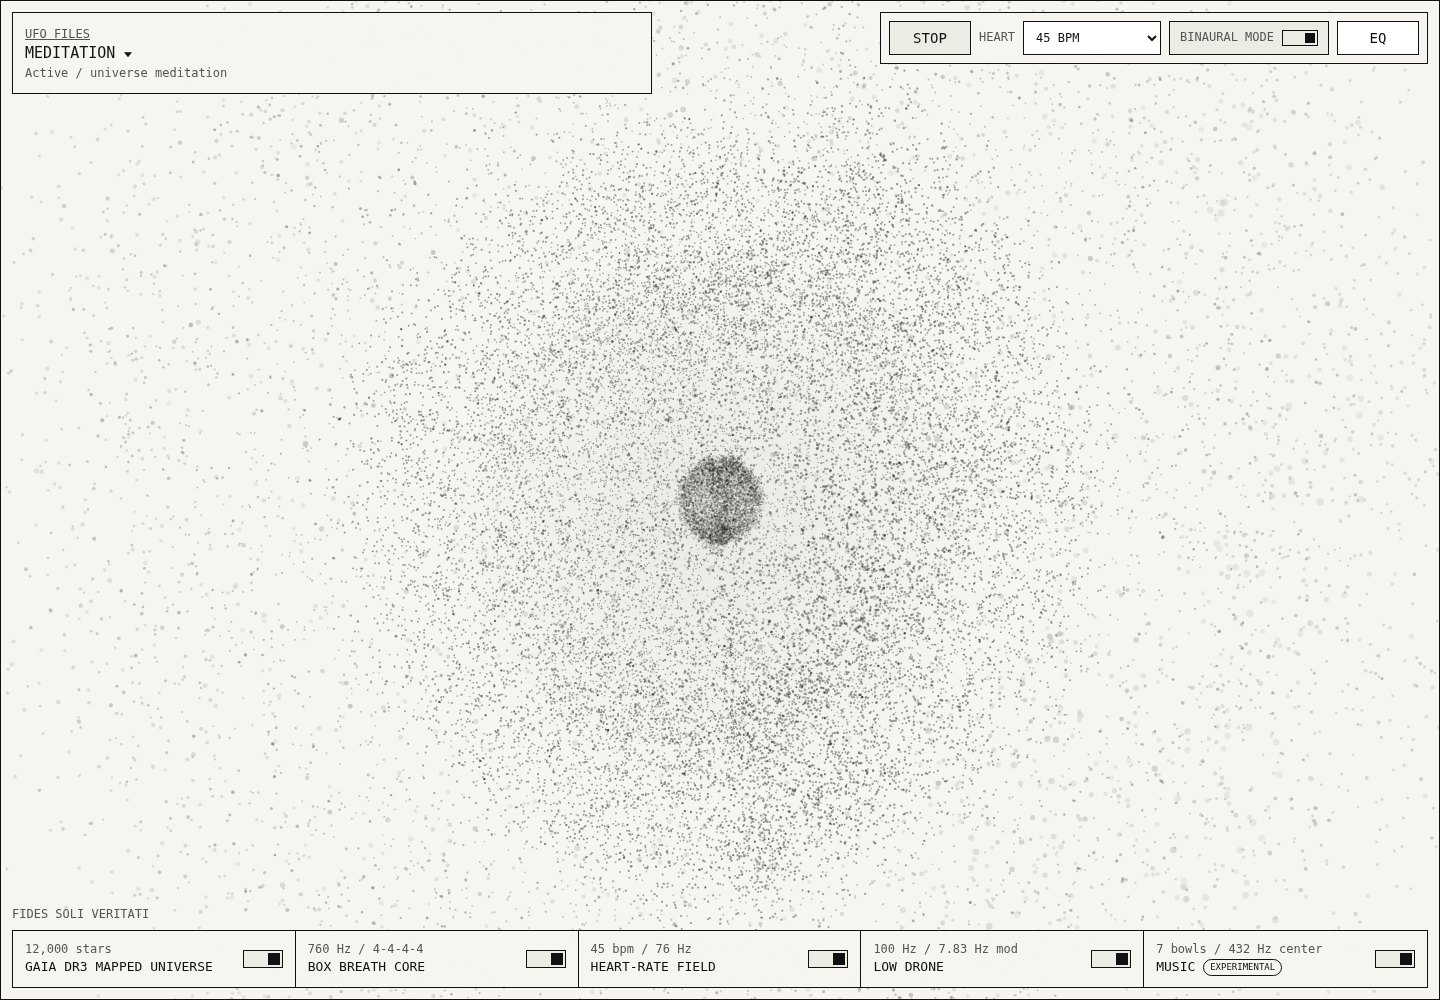
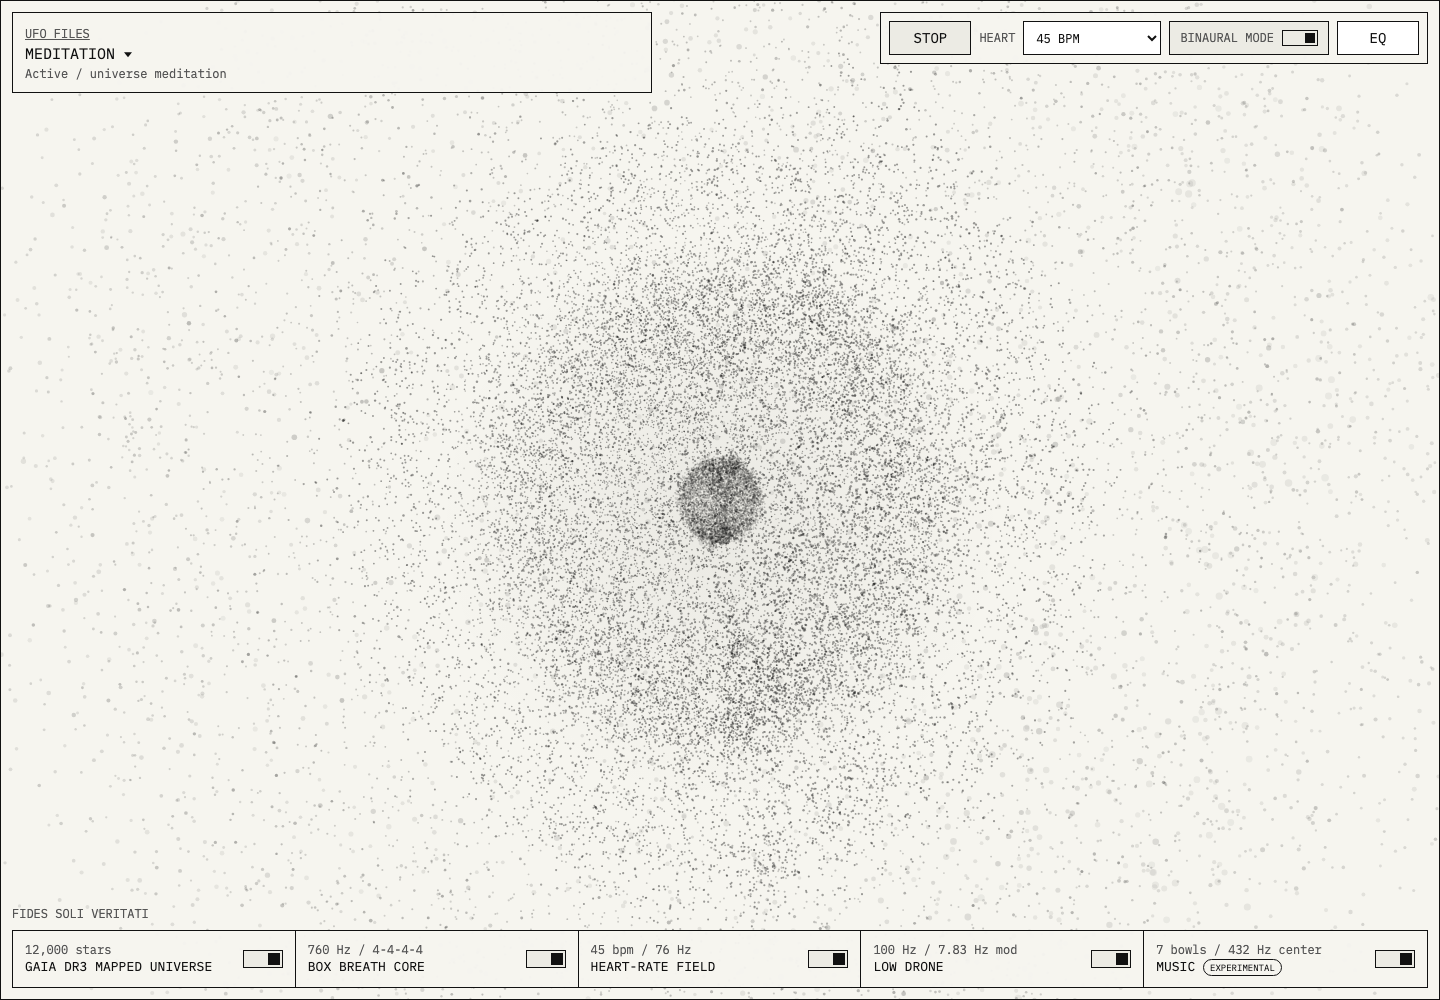
Tune meditation breath range

diff --git a/script.js b/script.js
@@ -367,7 +367,7 @@ function drawThree(elapsed) {
   view.universe.points.scale.setScalar(state.depth);
   view.universe.material.opacity = state.running ? .92 : .72;
   updateThreeMusicLayer(view.music, MUSIC_VOLUME_SCALE, music, elapsed, active);
-  updateThreeProceduralLayer(view.breath, BEAT_VOLUME_SCALE + breath * .12, state.running ? .024 : 0, .46 + breath * .3);
+  updateThreeProceduralLayer(view.breath, BEAT_VOLUME_SCALE * (.5 + breath * .5), state.running ? .024 : 0, .5 + breath * .32);
   updateThreeHeartLayer(view.beat, BEAT_VOLUME_SCALE, beat, state.running);
   updateThreeDroneLayer(view.drone, DRONE_VOLUME_SCALE, state.running ? audioElapsed(elapsed) : elapsed, state.running ? .007 : 0);
   view.renderer.render(view.scene, view.camera);
@@ -414,13 +414,13 @@ function updateThreeMusicLayer(layer, scale, energy, elapsed, active) {
 function updateThreeHeartLayer(layer, scale, beat, animateSurface) {
   const positions = layer.geometry.attributes.position.array;
   const now = performance.now() * .00012;
-  const pulseScale = scale * (1 + beat * .12);
+  const pulseScale = scale * (1 + beat * .08);
   for (let index = 0; index < layer.phases.length; index += 1) {
     const offset = index * 3;
     const nx = layer.directions[offset];
     const ny = layer.directions[offset + 1];
     const nz = layer.directions[offset + 2];
-    const surfaceNoise = animateSurface ? Math.sin(layer.phases[index] * TWO_PI + now) * .006 : 0;
+    const surfaceNoise = animateSurface ? Math.sin(layer.phases[index] * TWO_PI + now) * .004 : 0;
     positions[offset] = layer.basePositions[offset] * pulseScale + nx * surfaceNoise;
     positions[offset + 1] = layer.basePositions[offset + 1] * pulseScale + ny * surfaceNoise;
     positions[offset + 2] = layer.basePositions[offset + 2] * pulseScale + nz * surfaceNoise;
@@ -466,8 +466,8 @@ function drawCanvas(elapsed) {
   ctx.clearRect(0, 0, width, height);
   if (state.layers.universe) drawCanvasStars({ width, height, scale, rotationX, rotationY });
   if (state.layers.music) drawCanvasMusicPoints(musicPoints, MUSIC_VOLUME_SCALE, 1.06, rotationX * .82, rotationY * 1.12, .34 + music * .22, music, elapsed);
-  if (state.layers.breath) drawCanvasSpherePoints(breathPoints, BEAT_VOLUME_SCALE + breath * .12, .9, rotationX, rotationY, .28 + breath * .24, state.running ? .025 : 0);
-  if (state.layers.beat) drawCanvasSpherePoints(beatPoints, BEAT_VOLUME_SCALE * (1 + beat * .12), .74, rotationX * .9, rotationY * 1.08, .34 + beat * .44, state.running ? .006 : 0);
+  if (state.layers.breath) drawCanvasSpherePoints(breathPoints, BEAT_VOLUME_SCALE * (.5 + breath * .5), .9, rotationX, rotationY, .32 + breath * .26, state.running ? .025 : 0);
+  if (state.layers.beat) drawCanvasSpherePoints(beatPoints, BEAT_VOLUME_SCALE * (1 + beat * .08), .74, rotationX * .9, rotationY * 1.08, .34 + beat * .44, state.running ? .004 : 0);
   if (state.layers.drone) drawCanvasDronePoints(dronePoints, DRONE_VOLUME_SCALE, .9, rotationX * 1.1, rotationY * .82, .16, state.running ? audioElapsed(elapsed) : elapsed);
 }
 